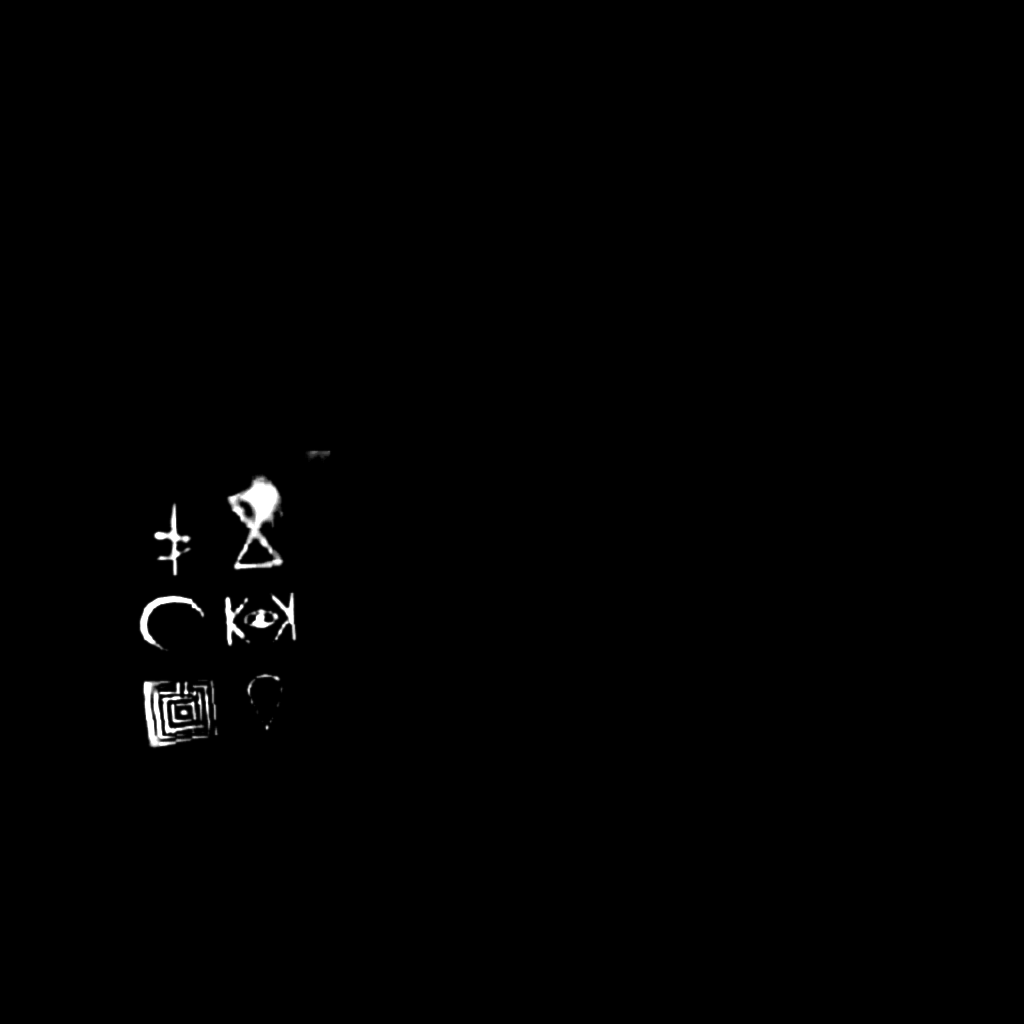
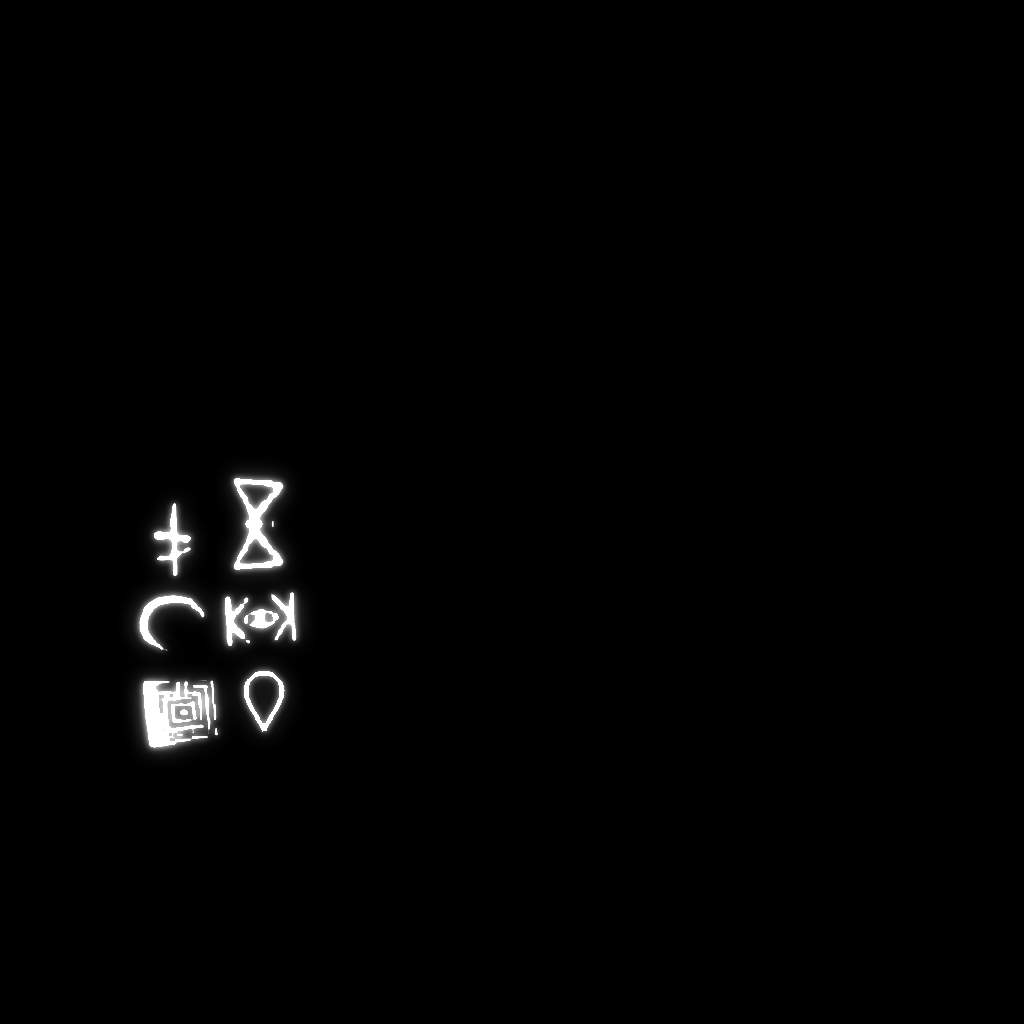
Sem travar ao subir de nível/Premium, pedras por tamanho, runas acesas, XP de classe, Shop sem pular
- WebGL: sempre as mesmas 15 luzes pontuais no desenho (luzes-fixas.ts); luz que nasce ou some não recompila mais tudo
- efeitos de festa compilados com antecedência (20 s depois de entrar e com XP acima de 85%)
- retrato do herói lido da placa sem parar o quadro e só depois da festa
- calçamento: pedra grande no centro da cidade/vila, menor para fora (WebGL e WebGPU)
- runas da pedra de teleporte: máscara refeita (ampulheta e gota inteiras, halo) e mais brilho
- classe usa a mesma tabela de XP do nível e ganha o XP inteiro
- Shop com tamanho fixo e rolagem mantida

Claude-Session: https://claude.ai/code/session_011Q13KsK35R24aYscTFTDoe

Changed region(s): [[0.125, 0.4375, 0.3125, 0.75]]

diff --git a/client/src/main.ts b/client/src/main.ts
@@ -19,6 +19,7 @@ import { eyeSees } from './surrender';
 import * as THREE from 'three';
 import { gaitOf } from './andar';
 import { premiumWelcome } from './celebrate';
+import { createFixedLights } from './luzes-fixas';
 /* DESEMPENHO (25/10, 10 fps no evento): o three.js recalcula a matriz de TODO objeto da cena a cada quadro, mesmo escondido —
    e são ~29 mil peças de NPCs longe (visible=false). Escondido não recalcula; ao reaparecer, recalcula no mesmo quadro. */
 { const P = THREE.Object3D.prototype as THREE.Object3D & { __umw?: boolean }; if (!P.__umw) { P.__umw = true; const orig = P.updateMatrixWorld;
@@ -297,6 +298,7 @@ function geoSweep(roots: THREE.Object3D[]): { geo: number; tex: number } {
   return { geo, tex };
 }
 let geoSweepT = 30;
+const fixedL = gpuImpl ? null : createFixedLights(15); /* WebGL: sempre as mesmas 15 luzes pontuais no desenho (luzes-fixas.ts) — luz que nasce ou some não recompila nada */
 const scene = new THREE.Scene(); scene.matrixWorldAutoUpdate = false; /* o quadro chama scene.updateMatrixWorld() uma vez (duas passadas de desenho) */
 scene.background = new THREE.Color(0x050814);
 scene.fog = new THREE.FogExp2(0x050814, 0.02);
@@ -655,7 +657,7 @@ const inv = createInventory(game, { reactor: () => ({ on: kitRace() === 'tecno',
     if (id === 'lagrima') { confirmBox('Trocar uma <b>Lágrima do Olho</b> por <b>60 dias de Premium</b>?<br><small>Ela não volta. Guardada, ela paga uma volta da alma no Limiar.</small>', 'Trocar', () => { if (!inv.take('lagrima', 1)) return; addPremiumDays(60); game.logMsg('💧 A Lágrima se desfaz em luz: +60 dias de Bênção de Marghar (Premium).', '#c9a0ff'); }); return true; }
     if (SEAL[id]) { if (!inv.take(id, 1)) return true; addPremiumDays(SEAL[id]); const d = Math.ceil((premiumUntil() - Date.now()) / 864e5); game.logMsg(`✦ Selo de Marghar rompido: +${SEAL[id]} dias de Premium (${d} dias no total).`, '#c9a0ff');
       /* 03/11: a comemoração — o herói dança, o brilho violeta e dourado sobe em volta dele e chega a mensagem de boas-vindas */
-      hero.act('dance', true); audio.chime(); const hp = hero.root.position;
+      dispatchEvent(new CustomEvent('karmika:celebrate')); hero.act('dance', true); audio.chime(); const hp = hero.root.position;
       for (let w = 0; w < 4; w++) setTimeout(() => { for (let i = 0; i < 40; i++) { const a = i / 40 * 6.283; particles.spawn(hp.x + Math.cos(a) * 0.8, hp.y + 0.2, hp.z + Math.sin(a) * 0.8, { vx: Math.cos(a) * 1.6, vy: 1.5 + Math.random() * 2.5, vz: Math.sin(a) * 1.6, life: 1.4, s0: 0.3, s1: 0.04, c0: 0xffffff, c1: w % 2 ? 0xffd24a : 0xc9a0ff, a: 1, drag: 1.2, g: -0.3 }); } }, w * 500);
       dispatchEvent(new CustomEvent('karmika:burst', { detail: { c0: 0xffffff, c1: 0xc9a0ff, n: 180 } }));
       setTimeout(() => premiumWelcome(SEAL[id], d), 900); return true; }
@@ -1614,6 +1616,13 @@ function applyGfx() { const m = opts.gfx === 1; PIX = m ? 1 : opts.pix; WORLD_RA
 /* RESGUARDO: se o WebGPU errar seguido neste PC (driver, placa, navegador), o jogo anota e reabre em WebGL sozinho — o jogador não fica
    com tela preta. A escolha WebGPU continua salva; na próxima abertura ele tenta de novo só se o jogador pedir (Opções → Renderizador). */
 let gpuFails = 0, gpuFailT = 0;
+/* PRÉ-AQUECIMENTO (03/11, Erling: "não quero que o jogo trave quando passa de level nem quando compra premium… um pré-carregamento quando o
+   XP estiver perto de 90%"): os materiais dos efeitos de festa são compilados com antecedência, em segundo plano — 20 s depois de entrar no
+   mundo e de novo quando o XP passa de 85% (o que já foi compilado não custa nada). No WebGPU os programas já são montados em segundo plano. */
+{ let warmed = 0; const warm = () => { if (gpuImpl) return; try { const g = game.prewarmGroup(), prev = renderer.getRenderTarget(); renderer.setRenderTarget(composer.renderTarget1); /* o mundo é desenhado num alvo linear (o composer): o programa é o desse alvo */ void renderer.compileAsync(g, camera, scene).catch(() => { /* */ }); renderer.setRenderTarget(prev); } catch { /* */ } };
+  setTimeout(warm, 20000); setInterval(() => { const k = game.st.xp / Math.max(1, game.xpNeed()); if (k > 0.85 && warmed !== game.st.lvl) { warmed = game.st.lvl; warm(); } }, 5000); }
+/* teste (Playwright): subir de nível e usar item sem jogar até lá */
+(window as unknown as { __kt: unknown }).__kt = { game, inv, renderer, hero: () => hero };
 function gpuFail(m: string) { if (/[?&]gpunofb=1/.test(location.search)) { gpuErr(m); return; } const now = performance.now(); if (now - gpuFailT > 10000) gpuFails = 0; gpuFailT = now; gpuFails++; console.error('[WebGPU] erro no quadro:', m);
   if (gpuFails >= 20 || gpuState.errs > 60) { try { sessionStorage.setItem('karmika.gpuFallback', m.slice(0, 300)); } catch { /* */ } opts.rend = 0; saveOpts(); gpuImpl = null; location.reload(); } }
 setInterval(() => { if (gpuImpl && (gpuState.errs > 60 || gpuState.lost)) { gpuFails = 99; gpuFail(gpuState.lost ? 'a placa de vídeo se desligou do WebGPU' : 'erros seguidos do WebGPU'); } }, 1000);
@@ -2431,7 +2440,7 @@ function eyeGaze(): { x: number; y: number; kind: 'threat' | 'mouse' | 'move' | 
 const LUZES_ATIVAS = 14;
 let poolT = 0, poolList: THREE.PointLight[] = [], poolScanT = 0;
 function lightPool(dt: number) {
-  poolScanT -= dt; if (poolScanT <= 0) { poolScanT = 1.5; poolList = []; scene.traverse((o) => { const l = o as THREE.PointLight; if (l.isPointLight && l !== lantern && !(l.userData as { keep?: boolean; gpuPool?: boolean }).keep && !(l.userData as { gpuPool?: boolean }).gpuPool) poolList.push(l); /* 03/11: as 24 luzes fixas do WebGPU ficam fora deste rodízio — apagar uma delas mudava o conjunto de luzes e remontava TODOS os materiais (tela preta de 1 s) */
+  poolScanT -= dt; if (poolScanT <= 0) { poolScanT = 1.5; poolList = []; scene.traverse((o) => { const l = o as THREE.PointLight; if (l.isPointLight && l !== lantern && !(l.userData as { keep?: boolean; gpuPool?: boolean }).keep && !(l.userData as { gpuPool?: boolean }).gpuPool && !(l.userData as { fixedLight?: boolean }).fixedLight) poolList.push(l); /* 03/11: as 24 luzes fixas do WebGPU ficam fora deste rodízio — apagar uma delas mudava o conjunto de luzes e remontava TODOS os materiais (tela preta de 1 s) */
       /* sombra só para o que tem tamanho de fazer sombra: capim, flor, pedrinha e vela não entram no mapa de sombras (eram milhares) */
       const m = o as THREE.Mesh; if (m.isMesh && m.castShadow && !(m.userData as { shadowChecked?: boolean }).shadowChecked) { (m.userData as { shadowChecked?: boolean }).shadowChecked = true; const g = m.geometry; if (!g.boundingSphere) g.computeBoundingSphere(); const sc = Math.max(m.scale.x, m.scale.y, m.scale.z); if ((g.boundingSphere?.radius ?? 1) * sc < 0.28 && !(m as unknown as { isSkinnedMesh?: boolean }).isSkinnedMesh) m.castShadow = false; } }); }
   poolT -= dt; if (poolT > 0) return; poolT = 0.2;
@@ -2470,7 +2479,7 @@ function frameBody() {
   { fpsN++; const nowMs = performance.now(); if (nowMs - fpsT > 1000) { const v = document.getElementById('ver'); if (v) { const N = Math.max(1, perf.n), ri = renderer.info.render; v.textContent = `${fpsN} fps · CPU ${(perf.cpuS / N).toFixed(1)} ms (desenho ${(perf.drawS / N).toFixed(1)}) · GPU ${perf.gpuN ? (perf.gpuS / perf.gpuN).toFixed(1) + ' ms' : '—'} · ${ri.calls} desenhos · ${(ri.triangles / 1000).toFixed(0)}k tri · ${game.dbg().en.length} inimigos · build ${__BUILD__}`; }
     perf.cpuS = perf.drawS = perf.gpuS = 0; perf.n = perf.gpuN = 0; fpsN = 0; fpsT = nowMs; pmFlush(); } }
   const rawDt = Math.min(0.05, clock.getDelta());
-  if (limiar.active) { limiar.frame(rawDt, renderer.domElement.width, renderer.domElement.height); bloom.strength = 0.22 * opts.bloom * gfxBloom; renderer.info.reset(); if (gpuImpl) limiarGL(true); else composer.render(); return; }
+  if (limiar.active) { limiar.frame(rawDt, renderer.domElement.width, renderer.domElement.height); bloom.strength = 0.22 * opts.bloom * gfxBloom; renderer.info.reset(); if (gpuImpl) limiarGL(true); else { if (fixedL) { const [fs, fc] = dual.cur(); fixedL.frame(fs, fc); } composer.render(); } return; }
   if (limGL) limiarGL(false); // o mundo espera lá embaixo
   const dt = rawDt * game.timeScale() * (cinemaSys.cine ? 0 : 1) * (dlg.isOpen || document.getElementById('create')!.style.display === 'grid' ? 0 : 1) /* mundo vivo: janelas não pausam */;
   geoSweepT -= rawDt; if (geoSweepT <= 0) { geoSweepT = 30; const t0 = performance.now(), r = geoSweep([scene]); if (r.geo + r.tex > 0 && location.search.includes("perf")) console.log(`[varredura] ${r.geo} geometrias, ${r.tex} texturas soltas em ${(performance.now() - t0).toFixed(1)} ms`); }
@@ -2722,7 +2731,7 @@ function frameBody() {
     const nm = relicNameAt(rl.gx, rl.gy), known = !!nm && knowsRelic(nm), k = 0.5 + 0.5 * Math.sin(t * 2.2 + rl.seed);
     /* não marcada: chamado dourado no chão, pedra lisa. Marcada: as runas kármicas se gravam na pedra em azul e fica uma aura azul pequena */
     /* 03/11 (Erling: "as runas brilhantes… amarelo antes de marcar, azul depois de marcar"): as runas sempre brilham — douradas chamando, azul mágico depois */
-    { const rm = rl.runes.material as THREE.MeshBasicMaterial; if ((rl.runes.material as THREE.Material).userData.stoneGlow) { const sm = rl.runes.material as THREE.MeshToonMaterial; sm.emissive.setHex(known ? 0x3aa8ff : 0xffc83a); sm.emissiveIntensity = known ? 1.15 + 0.35 * k : 0.7 + 0.45 * k; } else if (rl.ring.userData.stone) { rm.color.setHex(known ? 0x4ab0ff : 0xffc83a); rm.opacity = known ? 0.85 + 0.15 * k : 0.55 + 0.4 * k; } else rm.opacity = known ? 0.8 + 0.2 * k : 0.04; }
+    { const rm = rl.runes.material as THREE.MeshBasicMaterial; if ((rl.runes.material as THREE.Material).userData.stoneGlow) { const sm = rl.runes.material as THREE.MeshToonMaterial; sm.emissive.setHex(known ? 0x5ab8ff : 0xffc83a); sm.emissiveIntensity = known ? 2.6 + 0.8 * k : 1.6 + 0.8 * k; /* 03/11 (Erling: "as cores dentro da pedra mais brilhantes, em tudo, mais para fora da cavidade"): máscara refeita (traço inteiro + halo em volta) e o dobro do brilho — o bloom espalha */ } else if (rl.ring.userData.stone) { rm.color.setHex(known ? 0x4ab0ff : 0xffc83a); rm.opacity = known ? 0.85 + 0.15 * k : 0.55 + 0.4 * k; } else rm.opacity = known ? 0.8 + 0.2 * k : 0.04; }
     (rl.ring.material as THREE.MeshBasicMaterial).color.setHex(known ? (rl.ring.userData.col as number | undefined) ?? 0x5aa8ff : 0xffc83a); (rl.ring.material as THREE.MeshBasicMaterial).opacity = known ? 0.35 + 0.2 * k : 0.55 + 0.4 * k;
     rl.ring.scale.setScalar(known ? 0.72 + 0.04 * k : 1.0 + 0.12 * k); rl.ring.rotation.y = t * (known ? 0.25 : 0.5);
     if (Math.random() < dt * (known ? 4 : 5) && rl.pos.distanceTo(heroPos) < 50) { const a = Math.random() * 6.283, rr = known ? 0.5 + Math.random() * 0.4 : 0.8 + Math.random() * 1.2; particles.spawn(rl.pos.x + Math.cos(a) * rr, rl.pos.y - (known ? 0.6 : 1.4), rl.pos.z + Math.sin(a) * rr, known ? { vy: 0.5 + Math.random() * 0.6, life: 1.3, s0: 0.12, s1: 0.02, c0: rl.ring.userData.stone ? 0xbfe6ff : 0xffe0a0, c1: rl.ring.userData.stone ? 0x3a8aff : (rl.ring.userData.col as number | undefined) ?? 0x4a9aff, a: 0.9 } : { vy: 0.8 + Math.random() * 0.8, life: 1.6, s0: 0.14, s1: 0.02, c0: 0xfff0bd, c1: 0xffd24a, a: 1 }); }
@@ -2788,7 +2797,7 @@ function frameBody() {
   pm('bloom-cfg');
   scene.updateMatrixWorld(); /* uma vez por quadro, para as duas passadas do desenho (o three.js fazia em cada render) */
   renderer.info.reset();
-  { const d0 = performance.now(); gpuBegin(); composer.render(); gpuEnd(); perf.drawS += performance.now() - d0; }
+  { const d0 = performance.now(); if (fixedL) { const [fs, fc] = dual.cur(); fixedL.frame(fs, fc); } gpuBegin(); composer.render(); gpuEnd(); perf.drawS += performance.now() - d0; }
   pm('desenho');
   dollTick(rawDt);
   pm('boneco');

diff --git a/client/src/sistemas/social-guildas.ts b/client/src/sistemas/social-guildas.ts
@@ -197,10 +197,10 @@ const inicio = createInicio({ onServer: (sv) => hub.connect(sv), social: () => s
   onPlay: (server, isNew) => { pendingServer = server; if (isNew || !K.profile) K.showCreate(); /* direto: antes a vila aparecia por um instante entre o menu e a criação (Erling, 26/10) */ else K.withFade(() => { K.objs.update(K.state.fx * T, K.state.fy * T, true); joinServer(); }, server ? 'Entrando no servidor…' : 'Entrando em Karmika…', () => setTimeout(K.resumeSoul, 300)); },
   fresh: async () => K.profile ? { lvl: K.game.st.lvl, cls: K.classOfRace(K.state.race), pic: await slotPic() } : null });
 /** retrato pequeno (96×120) do herói carregado, para o card do personagem */
-function slotPic(): Promise<string | null> { return new Promise((res) => { try { if (K.humanSkinKey() && !K.peleSys.skinModel) { res(null); return; } /* o modelo do artista ainda não chegou: fica a foto anterior */ res(heroCard(K.hero.root)); } catch { res(null); } }); }
+function slotPic(): Promise<string | null> { return new Promise((res) => { try { if (K.humanSkinKey() && !K.peleSys.skinModel) { res(null); return; } /* o modelo do artista ainda não chegou: fica a foto anterior */ const c = heroCard(K.hero.root); if (!c) { res(null); return; } c.then(res, () => res(null)); } catch { res(null); } }); }
 /** retrato do Caminhante para a tela de personagens (25/10): estúdio próprio — luz de frente, contraluz, cores em sRGB,
  *  fundo de pergaminho escuro com brilho dourado e sombra no chão. Antes saía escuro e indecifrável (render target linear, sem fundo). */
-function heroCard(root: THREE.Object3D): string | null {
+function heroCard(root: THREE.Object3D): Promise<string | null> | null {
   const W = 264, H = 330, S = 2, rw = W * S, rh = H * S, rt = new THREE.WebGLRenderTarget(rw, rh); rt.texture.colorSpace = THREE.SRGBColorSpace;
   const ps = new THREE.Scene(); ps.environment = K.scene.environment;
   ps.add(new THREE.HemisphereLight(0xfff2dc, 0x6a5a50, 4.2)); ps.add(new THREE.AmbientLight(0xffffff, 1.4));
@@ -214,12 +214,18 @@ function heroCard(root: THREE.Object3D): string | null {
   const cam = new THREE.PerspectiveCamera(26, W / H, 0.05, 40), dist = (top * 0.56) / Math.tan((26 / 2) * Math.PI / 180) + 0.3; cam.position.set(0.25, cy + 0.12, dist); cam.lookAt(0, cy, 0); cam.layers.enableAll();
   const bgc = new THREE.Color(); K.renderer.getClearColor(bgc); const alpha = K.renderer.getClearAlpha(), sm = K.renderer.shadowMap.autoUpdate;
   K.renderer.shadowMap.autoUpdate = false; K.renderer.setRenderTarget(rt); K.renderer.setClearColor(0x000000, 0); K.renderer.clear(); K.renderer.render(ps, cam);
-  const px = new Uint8Array(rw * rh * 4); K.renderer.readRenderTargetPixels(rt, 0, 0, rw, rh, px);
-  K.renderer.setRenderTarget(null); K.renderer.setClearColor(bgc, alpha); K.renderer.shadowMap.autoUpdate = sm; rt.dispose();
+  K.renderer.setRenderTarget(null); K.renderer.setClearColor(bgc, alpha); K.renderer.shadowMap.autoUpdate = sm;
   for (const o of xr) o.visible = true; ps.remove(root); if (parent) parent.add(root); root.position.copy(pos); root.rotation.copy(rot); root.visible = vis;
-  const fig = document.createElement('canvas'); fig.width = rw; fig.height = rh; const fg = fig.getContext('2d')!, im = fg.createImageData(rw, rh);
-  let any = 0; for (let y = 0; y < rh; y++) for (let x = 0; x < rw; x++) { const si = ((rh - 1 - y) * rw + x) * 4, di = (y * rw + x) * 4; im.data[di] = px[si]; im.data[di + 1] = px[si + 1]; im.data[di + 2] = px[si + 2]; im.data[di + 3] = px[si + 3]; any += px[si + 3] > 0 ? 1 : 0; }
-  if (any < 200) return null; fg.putImageData(im, 0, 0);
+  /* 03/11 (Erling: "não quero que o jogo trave quando passa de level"): os pixels voltam da placa SEM parar o quadro (leitura assíncrona);
+     o resto (fundo, moldura, JPEG) é feito quando chegam */
+  const px = new Uint8Array(rw * rh * 4), R = K.renderer as THREE.WebGLRenderer & { readRenderTargetPixelsAsync?: (rt: THREE.WebGLRenderTarget, x: number, y: number, w: number, h: number, b: Uint8Array) => Promise<unknown> };
+  const read: Promise<unknown> = R.readRenderTargetPixelsAsync ? R.readRenderTargetPixelsAsync(rt, 0, 0, rw, rh, px) : Promise.resolve(R.readRenderTargetPixels(rt, 0, 0, rw, rh, px));
+  return read.then(() => { rt.dispose(); return cardFinish(px, rw, rh, W, H, top, cy); }, () => { rt.dispose(); return null; });
+}
+function cardFinish(px: Uint8Array, rw: number, rh: number, W: number, H: number, top: number, cy: number): string | null {
+  let any = 0; for (let i = 3; i < px.length; i += 16) if (px[i] > 0) any++; if (any < 50) return null;
+  const flip = document.createElement('canvas'); flip.width = rw; flip.height = rh; flip.getContext('2d')!.putImageData(new ImageData(new Uint8ClampedArray(px.buffer as ArrayBuffer), rw, rh), 0, 0);
+  const fig = document.createElement('canvas'); fig.width = rw; fig.height = rh; const fg = fig.getContext('2d')!; fg.translate(0, rh); fg.scale(1, -1); fg.drawImage(flip, 0, 0); /* a placa lê de baixo para cima */
   const cv = document.createElement('canvas'); cv.width = W; cv.height = H; const g = cv.getContext('2d')!;
   const bg = g.createRadialGradient(W / 2, H * 0.42, 10, W / 2, H * 0.5, H * 0.75); bg.addColorStop(0, '#5a4226'); bg.addColorStop(0.45, '#2a1e14'); bg.addColorStop(1, '#0c0806'); g.fillStyle = bg; g.fillRect(0, 0, W, H);
   g.globalAlpha = 0.18; g.strokeStyle = '#e0b45a'; g.lineWidth = 1; for (let k = 0; k < 7; k++) { g.beginPath(); g.arc(W / 2, H * 0.4, 30 + k * 26, 0, Math.PI * 2); g.stroke(); } g.globalAlpha = 1;
@@ -230,13 +236,16 @@ function heroCard(root: THREE.Object3D): string | null {
   return cv.toDataURL('image/jpeg', 0.86);
 }
 /* o retrato do cartão lê pixels da placa (trava o quadro): só tira de novo quando muda nível, classe ou a cada 5 min, não a cada 20 s */
-let picKey = '', picAt = 0;
+let picKey = '', picAt = 0, celebAt = 0;
+addEventListener('karmika:celebrate', () => { celebAt = performance.now(); });
 function saveSlotMeta() { if (!K.profile || inicio.isOpen || K.peleSys.creating) return;
   const pk = `${K.game.st.lvl}|${(document.getElementById('who')?.textContent || '').trim()}`;
   /* WebGPU: a foto sai por um WebGL à parte, que monta o herói do zero (meio segundo parado). Então só tira quando muda nível ou classe —
      não na primeira gravação (fica a foto que já estava no cartão) nem a cada 5 min */
   if (gpuState.on && !picKey) picKey = pk;
-  const needPic = pk !== picKey || (!gpuState.on && performance.now() - picAt > 300000); if (needPic) { picKey = pk; picAt = performance.now(); }
+  /* a foto espera a festa acabar: nada de tirar retrato no meio do pilar de luz da subida de nível ou de uma luta */
+  const busy = performance.now() - celebAt < 12000 || !!K.hero.combat;
+  const needPic = !busy && (pk !== picKey || (!gpuState.on && performance.now() - picAt > 300000)); if (needPic) { picKey = pk; picAt = performance.now(); }
   (needPic ? slotPic() : Promise.resolve(null)).then((pic) => { if (K.profile) inicio.saveMeta({ name: K.profile.name, lvl: K.game.st.lvl, cls: (document.getElementById('who')?.textContent || '').trim(), origin: K.profile.origin, sex: K.profile.sex ?? 'm', pic, server: K.net.state === 'on' ? `karmika://${K.net.address}/${K.net.code}` : null }); }); }
 setInterval(saveSlotMeta, 20000); addEventListener('beforeunload', () => { if (K.profile && !inicio.isOpen) inicio.saveMeta({ name: K.profile.name, lvl: K.game.st.lvl, cls: (document.getElementById('who')?.textContent || '').trim(), origin: K.profile.origin, sex: K.profile.sex ?? 'm', pic: null, server: null }); });
 /* balão de fala sobre o herói */

diff --git a/client/src/chunks3d.ts b/client/src/chunks3d.ts
@@ -4,6 +4,8 @@ import { TILE_M as T } from '@karmika/shared';
 import { type World, type Biome, MAP_W, MAP_H, groundH, waterSD, zoneW, WL, fbm, vnoise, smoothstep, rng } from './world';
 import { windU, windify } from './terrain3d';
 /* fator de calçamento num ponto (em casas): 1 perto das cidades, cai até 0 no ermo; perto das vilas, meio a meio (25/10) */
+/** tamanho da pedra do calçamento: 1 no coração da cidade ou da vila (laje grande), 0 longe (pedra miúda) */
+function stoneSize(w: World, x: number, y: number) { let p = 0; for (const st of w.settlements) { const d = Math.hypot(x - st.x, y - st.y); p = Math.max(p, st.kind === 'city' ? 1 - smoothstep(5, 34, d) : 0.85 * (1 - smoothstep(2, 18, d))); } return p; }
 function paveAt(w: World, x: number, y: number) { let p = 0; for (const st of w.settlements) { const d = Math.hypot(x - st.x, y - st.y); if (st.kind === 'city') p = Math.max(p, 1 - smoothstep(80, 170, d)); else p = Math.max(p, 0.55 * (1 - smoothstep(st.radius + 4, st.radius + 26, d))); } return p; }
 
 export const CS = 20;               // tiles por chunk
@@ -51,8 +53,8 @@ function getGroundMat() {
   groundMat = new THREE.MeshLambertMaterial({ vertexColors: true }); gpuTag(groundMat, 'ground', groundU); loadGroundTex();
   groundMat.onBeforeCompile = (sh) => {
     Object.assign(sh.uniforms, groundU);
-    sh.vertexShader = 'attribute float aPl; attribute vec4 aSp1; attribute vec4 aSp2; varying float vPl; varying vec3 vWp; varying vec4 vSp1; varying vec4 vSp2;\n' + sh.vertexShader.replace('#include <begin_vertex>', '#include <begin_vertex>\n vPl = aPl; vSp1 = aSp1; vSp2 = aSp2; vWp = (modelMatrix * vec4(position,1.0)).xyz;');
-    sh.fragmentShader = `precision highp sampler2DArray; uniform sampler2DArray tGround; uniform vec3 uMean[18]; uniform float uTexOn; varying float vPl; varying vec3 vWp; varying vec4 vSp1; varying vec4 vSp2;
+    sh.vertexShader = 'attribute float aPl; attribute float aCs; attribute vec4 aSp1; attribute vec4 aSp2; varying float vPl; varying float vCs; varying vec3 vWp; varying vec4 vSp1; varying vec4 vSp2;\n' + sh.vertexShader.replace('#include <begin_vertex>', '#include <begin_vertex>\n vPl = aPl; vCs = aCs; vSp1 = aSp1; vSp2 = aSp2; vWp = (modelMatrix * vec4(position,1.0)).xyz;');
+    sh.fragmentShader = `precision highp sampler2DArray; uniform sampler2DArray tGround; uniform vec3 uMean[18]; uniform float uTexOn; varying float vPl; varying float vCs; varying vec3 vWp; varying vec4 vSp1; varying vec4 vSp2;
       float gHash(vec2 p) { return fract(sin(dot(p, vec2(127.1, 311.7))) * 43758.5453); }
       float gNoise(vec2 p) { vec2 i = floor(p), f = fract(p); f = f * f * (3.0 - 2.0 * f); return mix(mix(gHash(i), gHash(i + vec2(1, 0)), f.x), mix(gHash(i + vec2(0, 1)), gHash(i + vec2(1, 1)), f.x), f.y); }
       /* a textura sem repetir: duas leituras (escala e ângulo diferentes) trocadas por um ruído largo */
@@ -77,7 +79,10 @@ function getGroundMat() {
         /* estrada de terra (as duas versões) e o calçamento de pedra */
         vec3 road = mix(gTex(2.0, 3.0), gTex(3.0, 3.0), smoothstep(0.4, 0.6, gNoise(vWp.xz * 0.06 + 9.0)));
         base = mix(base, road * 0.92, clamp(vSp1.x, 0.0, 1.0));
-        vec3 cob = mix(gTex(4.0, 2.4), gTex(5.0, 2.4), smoothstep(0.4, 0.6, gNoise(vWp.xz * 0.05 + 3.0)));
+        /* 03/11 (Erling: "as pedras maiores no centro e menores conforme se afasta da praça"): três tamanhos de pedra, do centro da cidade (grande) para fora (miúda), trocados aos poucos */
+        float cu = clamp(vCs, 0.0, 1.0) * 2.0, cf = smoothstep(0.3, 0.7, fract(cu)); float sA = cu < 1.0 ? 1.6 : 2.4, sB = cu < 1.0 ? 2.4 : 3.4; if (cu >= 2.0) { sA = 3.4; cf = 0.0; }
+        float cn = smoothstep(0.4, 0.6, gNoise(vWp.xz * 0.05 + 3.0));
+        vec3 cob = mix(mix(gTex(4.0, sA), gTex(5.0, sA), cn), mix(gTex(4.0, sB), gTex(5.0, sB), cn), cf);
         /* nas cidades grandes, a praça é de laje (vPl = cidade) */ cob = mix(cob, gTex(12.0, 3.2), vPl * smoothstep(0.3, 0.7, gNoise(vWp.xz * 0.02 + 11.0)));
         base = mix(base, cob * 0.95, clamp(vSp1.y, 0.0, 1.0));
         diffuseColor.rgb = base;
@@ -196,7 +201,7 @@ export function buildChunkTerrain(cx: number, cy: number, w: World): ChunkTerrai
   /* alturas com margem de 1 vértice (normais por diferença central) */
   const W2 = SEG + 3, hs = new Float32Array(W2 * W2);
   for (let j = 0; j < W2; j++) for (let i = 0; i < W2; i++) hs[j * W2 + i] = groundH(ox + (i - 1) * d, oz + (j - 1) * d);
-  const pos = new Float32Array(N * N * 3), nor = new Float32Array(N * N * 3), col = new Float32Array(N * N * 3), pl = new Float32Array(N * N), dep = new Float32Array(N * N), sds = new Float32Array(N * N), sp1 = new Float32Array(N * N * 4), sp2 = new Float32Array(N * N * 4);
+  const pos = new Float32Array(N * N * 3), nor = new Float32Array(N * N * 3), col = new Float32Array(N * N * 3), pl = new Float32Array(N * N), cs = new Float32Array(N * N), dep = new Float32Array(N * N), sds = new Float32Array(N * N), sp1 = new Float32Array(N * N * 4), sp2 = new Float32Array(N * N * 4);
   let anyWater = false;
   for (let j = 0; j < N; j++) for (let i = 0; i < N; i++) {
     const k = j * N + i, xm = ox + i * d, zm = oz + j * d, h = hs[(j + 1) * W2 + (i + 1)];
@@ -234,6 +239,7 @@ export function buildChunkTerrain(cx: number, cy: number, w: World): ChunkTerrai
     if (rw > 0.05) { const pv = paveAt(w, tx, ty); if (pv > 0) { const n = vnoise(xm * 0.55, zm * 0.55, 33) * 0.8 + vnoise(xm * 2.2, zm * 2.2, 34) * 0.2; pw = Math.max(pw, rw * smoothstep(n - 0.05, n + 0.05, pv)); } }
     if (rw > 0) { tmpD.copy(ROAD).lerp(ROAD2, vnoise(xm * 1.3, zm * 1.3, 2)); tmpC.lerp(tmpD, rw * 0.95); }
     if (pw > 0) tmpC.lerp(PLAZA, pw);
+    cs[k] = pw > 0.05 ? stoneSize(w, tx, ty) : 0;
     pl[k] = pw > 0.05 ? smoothstep(0.85, 1, paveAt(w, tx, ty)) : 0; /* 03/11: aPl virou "é cidade grande" (a praça de laje) */
     /* 03/11 (Erling: "capricha para ficar lindo e não ficar uma textura repetitiva"): pesos das texturas do chão (getGroundMat) —
        estrada de terra, calçamento, lama da margem, chão de floresta | seixos, rocha, areia, e quanto o chão natural usa a textura */
@@ -245,7 +251,7 @@ export function buildChunkTerrain(cx: number, cy: number, w: World): ChunkTerrai
   const idx: number[] = [];
   for (let j = 0; j < SEG; j++) for (let i = 0; i < SEG; i++) { const a = j * N + i, b = a + 1, c = a + N, e = c + 1; idx.push(a, c, b, b, c, e); }
   const gg = new THREE.BufferGeometry();
-  gg.setAttribute('position', new THREE.BufferAttribute(pos, 3)); gg.setAttribute('normal', new THREE.BufferAttribute(nor, 3)); gg.setAttribute('color', new THREE.BufferAttribute(col, 3)); gg.setAttribute('aPl', new THREE.BufferAttribute(pl, 1)); gg.setAttribute('aSp1', new THREE.BufferAttribute(sp1, 4)); gg.setAttribute('aSp2', new THREE.BufferAttribute(sp2, 4)); gg.setIndex(idx);
+  gg.setAttribute('position', new THREE.BufferAttribute(pos, 3)); gg.setAttribute('normal', new THREE.BufferAttribute(nor, 3)); gg.setAttribute('color', new THREE.BufferAttribute(col, 3)); gg.setAttribute('aPl', new THREE.BufferAttribute(pl, 1)); gg.setAttribute('aCs', new THREE.BufferAttribute(cs, 1)); gg.setAttribute('aSp1', new THREE.BufferAttribute(sp1, 4)); gg.setAttribute('aSp2', new THREE.BufferAttribute(sp2, 4)); gg.setIndex(idx);
   gg.computeBoundingSphere(); own.push(gg);
   grp.userData.kind = 'chunk'; const ground = new THREE.Mesh(gg, getGroundMat()); ground.position.set(ox, 0, oz); ground.receiveShadow = true; grp.add(ground);
 

diff --git a/client/src/gameplay.ts b/client/src/gameplay.ts
@@ -222,7 +222,19 @@ export function createGameplay(d: GameplayDeps) {
     for (let i = 0; i < 36; i++) { const a = rnd(0, 6.283), sp = rnd(1, 4); d.particles.spawn(cx, cy, cz, { vx: Math.cos(a) * sp, vy: rnd(-1, 2), vz: Math.sin(a) * sp, life: 2.6, s0: 0.7, s1: 0.05, c0: 0xfff2c0, c1: col, a: 0.9, drag: 0.8, g: 2.2, flit: 3 }); }
     d.audio.boom();
   }
+  /** 03/11 (Erling: "um pré-carregamento desses eventos antes de acontecerem"): uma amostra de cada material dos efeitos de festa (pilar e
+   *  anéis da subida de nível, clarão, anel de choque) — o main compila com antecedência, e a primeira subida de nível não para o jogo */
+  function prewarmGroup() {
+    const g = new THREE.Group(), geo = new THREE.PlaneGeometry(0.1, 0.1);
+    const add = (m: THREE.Material) => { const o = (m as THREE.SpriteMaterial).isSpriteMaterial ? new THREE.Sprite(m as THREE.SpriteMaterial) : new THREE.Mesh(geo, m); g.add(o); };
+    add(new THREE.MeshBasicMaterial({ color: 0xffffff, transparent: true, opacity: 0.5, blending: THREE.AdditiveBlending, depthWrite: false, side: THREE.DoubleSide, fog: false }));
+    add(new THREE.MeshBasicMaterial({ color: 0xffffff, transparent: true, opacity: 0.5, blending: THREE.AdditiveBlending, depthWrite: false, fog: false }));
+    add(new THREE.SpriteMaterial({ map: flashTex, transparent: true, depthWrite: false, blending: THREE.AdditiveBlending, fog: false }));
+    add(new THREE.SpriteMaterial({ map: PLUS_TEX, transparent: true, depthWrite: false, blending: THREE.AdditiveBlending, fog: false }));
+    return g;
+  }
   function levelFx(hp: THREE.Vector3) {
+    dispatchEvent(new CustomEvent('karmika:celebrate'));
     const mat = (c: number) => new THREE.MeshBasicMaterial({ color: c, transparent: true, opacity: 0, blending: THREE.AdditiveBlending, depthWrite: false, side: THREE.DoubleSide, fog: false });
     const pil = new THREE.Mesh(new THREE.CylinderGeometry(0.8, 1.6, 28, 20, 1, true), mat(0xffe9a0)); pil.position.set(hp.x, hp.y + 14, hp.z);
     const pil2 = new THREE.Mesh(new THREE.CylinderGeometry(0.28, 0.55, 32, 12, 1, true), mat(0xffffff)); pil2.position.set(hp.x, hp.y + 16, hp.z);
@@ -262,7 +274,9 @@ export function createGameplay(d: GameplayDeps) {
     m.position.set(dx, e.pos.y + 0.5, dz); fxAdd(m); drops.push({ m, x: dx, z: dz, y: e.pos.y, kind: 'item', n, t: 0, id });
   }
   /* ---- nível de classe (caminho): segunda barra abaixo do XP ---- */
-  const clsNeed = (l: number) => 90 + 70 * l + 9 * l * l;
+  /* 03/11 (Erling: "os pontos de classe não deveriam ser mais fáceis que os de nível? o humano é a classe base, segue a mesma regra"): a classe
+     usa a MESMA tabela do nível e ganha o XP inteiro (antes: 45% do XP e uma tabela ~50% mais cara — a classe andava 3× mais devagar) */
+  const clsNeed = (l: number) => xpNeedAt(l);
   let cls: { name: string; lvl: number; xp: number; past?: { name: string; lvl: number }[] } = { name: 'Humano', lvl: 1, xp: 0, past: [] };
   try { const s0 = JSON.parse(localStorage.getItem('karmika.class.v1') || 'null'); if (s0?.name && typeof s0.lvl === 'number') cls = s0; } catch { /* */ } // antes era s0?.lvl: quem mudava de classe e recarregava antes do 1º nível de classe voltava a Humano
   /** a alma filtra o XP: Dívida Kármica (come uma parte) e o eco da vida passada (multiplica o XP de classe) */
@@ -271,7 +285,7 @@ export function createGameplay(d: GameplayDeps) {
     const gross = Math.round(n0 * st.xpMul), f = xpFilter ? xpFilter(gross, cls) : { n: gross, paid: 0, cmul: 1 }, n = f.n;
     st.xp += n; dmgText(p.clone().setY(2.6), `+${n} XP`, false, '#9ad7ff'); logMsg(`+${n} XP${f.paid ? ` · ${f.paid} pagam a Dívida Kármica` : ''}${f.cmul > 1 ? ` · eco da vida passada: classe ×${f.cmul}` : ''}`, '#9ad7ff');
     { // XP de classe: a segunda contagem — o seu caminho (Caminhante, depois a classe da academia) evolui junto, mais devagar
-      const c = cls; c.xp += Math.round(gross * 0.45 * f.cmul);
+      const c = cls; c.xp += Math.round(gross * f.cmul);
       while (c.xp >= clsNeed(c.lvl)) { c.xp -= clsNeed(c.lvl); c.lvl++; dmgText(p.clone().setY(3.4), `${c.name.toUpperCase()} ${c.lvl}`, true, '#c9a0ff'); logMsg(`✦ Nível de classe ${c.lvl} — ${c.name}`, '#c9a0ff'); d.audio.chime(); classLevelUp(c.name, c.lvl); dispatchEvent(new CustomEvent('karmika:burst', { detail: { c0: 0xe8d0ff, c1: 0x8a4aff, n: 70 } })); }
       try { localStorage.setItem('karmika.class.v1', JSON.stringify(cls)); } catch { /* */ }
     }
@@ -1082,7 +1096,7 @@ export function createGameplay(d: GameplayDeps) {
     setNet(h: Partial<typeof netHooks>, party: () => number) { Object.assign(netHooks, h); partyN = party; },
     /** um companheiro de grupo matou um bicho perto de mim: XP, missão e o meu próprio saque */
     sharedKill(e: Enemy) { killEnemy(e, true); },
-    setPvp(f: typeof pvpHit) { pvpHit = f; }, /** a arma equipada (nome base) decide se o ataque básico é corpo a corpo ou tiro */ setWeapon(base: string | null) { wmode = base ? WMODE.find(([re]) => re.test(base))?.[1] ?? null : null; }, get weaponMode() { return wmode; }, get shotsLive() { return shots.count; }, shotsSys: shots, setOnYield(f: (e: Enemy, decide: (kill: boolean) => void) => void) { onYield = f; }, setXpFilter(f: typeof xpFilter) { xpFilter = f; }, spawnGear, gainXp(n: number) { gainXp(n, d.getHero().root.position); },
+    setPvp(f: typeof pvpHit) { pvpHit = f; }, /** a arma equipada (nome base) decide se o ataque básico é corpo a corpo ou tiro */ setWeapon(base: string | null) { wmode = base ? WMODE.find(([re]) => re.test(base))?.[1] ?? null : null; }, get weaponMode() { return wmode; }, get shotsLive() { return shots.count; }, shotsSys: shots, setOnYield(f: (e: Enemy, decide: (kill: boolean) => void) => void) { onYield = f; }, setXpFilter(f: typeof xpFilter) { xpFilter = f; }, spawnGear, gainXp(n: number) { gainXp(n, d.getHero().root.position); }, prewarmGroup,
     get menuOpen() { return st.menuOpen; },
     /** alvo mais próximo ao alcance (trava automática dos golpes) */
     timeScale() { return performance.now() < hitstop ? 0.1 : 1; },

diff --git a/client/src/luzes-fixas.ts b/client/src/luzes-fixas.ts
@@ -1,0 +1,45 @@
+/* LUZES FIXAS NO WEBGL (03/11, Erling: "não quero que o jogo trave quando passa de level nem quando compra premium").
+   No WebGL, o programa de cada material depende de QUANTAS luzes pontuais a cena tem. Toda luz que nasce ou some (o pilar de luz da
+   subida de nível, o brilho de um golpe, a lanterna de um NPC que chega, a vela de uma decoração) fazia o WebGL recompilar TODOS os
+   materiais da tela — segundos de tela parada. Agora o desenho vê sempre as mesmas luzes (as fixas): a cada quadro elas copiam posição,
+   cor, força e alcance das luzes reais mais perto do centro da tela. As luzes reais vão para a camada 31, que a câmera não desenha.
+   Muda só valor de uniforme: nada recompila. (No WebGPU, gpu/impl.ts faz o mesmo com o seu conjunto.) */
+import * as THREE from 'three';
+
+const HIDE = 31;
+const isFixed = (o: THREE.Object3D) => !!(o.userData.fixedLight || o.userData.gpuPool);
+function hideReal(o: THREE.Object3D) { if ((o as THREE.PointLight).isPointLight && !isFixed(o)) o.layers.set(HIDE); }
+
+let patched = false;
+/** toda luz pontual que entra na cena (sozinha ou dentro de um grupo) sai da vista do desenho na mesma hora */
+function patchAdd() {
+  if (patched) return; patched = true;
+  /* "todas as camadas" passa a ser todas MENOS a escondida: câmera de retrato, de boneco ou de cena (enableAll) também não vê as luzes reais —
+     antes o retrato do herói na subida de nível via 30 luzes e recompilava o herói inteiro */
+  THREE.Layers.prototype.enableAll = function (this: THREE.Layers) { this.mask = 0x7fffffff; };
+  const P = THREE.Object3D.prototype, oAdd = P.add;
+  P.add = function (this: THREE.Object3D, ...objs: THREE.Object3D[]) {
+    const r = oAdd.apply(this, objs);
+    for (const o of objs) { if (!o) continue; if ((o as THREE.PointLight).isPointLight) hideReal(o); else if (o.children.length) o.traverse(hideReal); }
+    return r;
+  } as typeof P.add;
+}
+
+export function createFixedLights(n = 15) {
+  patchAdd();
+  const pool: THREE.PointLight[] = []; let poolScene: THREE.Scene | null = null, reals: THREE.PointLight[] = [], tick = 0;
+  const tgt = new THREE.Vector3(), dir = new THREE.Vector3(), cand: { d: number; l: THREE.PointLight; p: THREE.Vector3 }[] = [], wps: THREE.Vector3[] = [];
+  const onStage = (o: THREE.Object3D, sc: THREE.Scene) => { let q: THREE.Object3D | null = o; while (q) { if (!q.visible) return false; if (q === sc) return true; q = q.parent; } return false; };
+  return {
+    /** antes de desenhar: as luzes fixas copiam as reais mais perto do que a câmera olha */
+    frame(s: THREE.Scene, cam: THREE.Camera) {
+      if (poolScene !== s) { if (!pool.length) for (let i = 0; i < n; i++) { const p = new THREE.PointLight(0xffffff, 0, 1, 2); p.userData.fixedLight = true; p.castShadow = false; pool.push(p); }
+        for (const p of pool) { p.removeFromParent(); s.add(p); p.layers.enableAll(); } poolScene = s; tick = 0; }
+      if ((tick++ % 10) === 0) { reals = []; s.traverse((o) => { const l = o as THREE.PointLight; if (!l.isPointLight || isFixed(l)) return; if (l.layers.mask !== 1 << HIDE) l.layers.set(HIDE); reals.push(l); }); }
+      cam.getWorldDirection(dir); tgt.copy(cam.position).addScaledVector(dir, 60); cand.length = 0;
+      for (let i = 0; i < reals.length; i++) { const l = reals[i]; if (l.intensity <= 0 || !onStage(l, s)) continue; const w = wps[i] ?? (wps[i] = new THREE.Vector3()); l.getWorldPosition(w); cand.push({ d: w.distanceTo(tgt) - (l.distance || 30) * 0.5, l, p: w }); }
+      cand.sort((a, b) => a.d - b.d);
+      for (let i = 0; i < n; i++) { const p = pool[i], c = cand[i]; if (c) { p.position.copy(c.p); p.color.copy(c.l.color); p.intensity = c.l.intensity; p.distance = c.l.distance; p.decay = c.l.decay; } else p.intensity = 0; p.updateMatrixWorld(true); }
+    },
+  };
+}

diff --git a/client/index.html b/client/index.html
@@ -1070,13 +1070,14 @@
   .qchoice { display: flex; flex-direction: column; gap: 6px; width: 100%; margin-bottom: 6px; } .qchoice p { margin: 0 0 4px; font: italic 14px Georgia, serif; color: #f0d890; } .qchoice button { text-align: left; white-space: normal; }
   /* Shop */
   #lojaw { position: fixed; inset: 0; display: none; align-items: center; justify-content: center; background: radial-gradient(ellipse at center, rgba(20,10,30,.55), rgba(0,0,0,.72)); z-index: 27; font-family: Georgia, serif; color: #e8dcc0; }
-  .ljpn { position: relative; width: min(940px, calc(94vw / var(--ui))); max-height: calc(90vh / var(--ui)); display: flex; flex-direction: column; background: linear-gradient(180deg, #1c140c 0%, #120c08 100%); border: 1px solid #8a6a3a; box-shadow: 0 0 0 1px #2a1e10, 0 0 40px rgba(201,160,255,.12), 0 20px 60px #000; border-radius: 4px; overflow: hidden; }
+  /* 03/11 (Erling: "toda vez que clico em itens ou abas do Shop ele mexe, como se mudasse de tamanho"): tamanho FIXO — cada aba tinha uma altura e a janela pulava */
+  .ljpn { position: relative; width: min(940px, calc(94vw / var(--ui))); height: min(780px, calc(90vh / var(--ui))); max-height: calc(90vh / var(--ui)); display: flex; flex-direction: column; background: linear-gradient(180deg, #1c140c 0%, #120c08 100%); border: 1px solid #8a6a3a; box-shadow: 0 0 0 1px #2a1e10, 0 0 40px rgba(201,160,255,.12), 0 20px 60px #000; border-radius: 4px; overflow: hidden; }
   .ljpn h2 { display: flex; align-items: center; gap: 12px; margin: 0; padding: 14px 18px; border-bottom: 1px solid #4a3a22; background: linear-gradient(90deg, #2a1a10, #1a1008 60%, #2a1a10); font: 600 20px Cinzel, serif; letter-spacing: .08em; color: #f0d890; }
   .ljpn h2 .lj-t { display: flex; align-items: center; gap: 10px; } .ljpn h2 .lj-t svg { width: 30px; height: 30px; filter: drop-shadow(0 0 6px #c9a0ff88); }
   .ljpn h2 small { font: italic 12px Georgia, serif; color: #a8987a; letter-spacing: 0; flex: 1; } .ljpn h2 button { background: none; border: 1px solid #5a4a30; color: #c8b890; width: 28px; height: 28px; cursor: pointer; border-radius: 3px; }
   .lj-tabs { display: flex; gap: 2px; padding: 10px 18px 0; border-bottom: 1px solid #3a2c1a; } .lj-tabs button { background: #1a120a; border: 1px solid #3a2c1a; border-bottom: 0; color: #a8987a; font: 600 12px Cinzel, serif; letter-spacing: .06em; padding: 8px 16px; cursor: pointer; border-radius: 3px 3px 0 0; }
   .lj-tabs button.on { background: #2a1e12; color: #f0d890; border-color: #8a6a3a; } .lj-tabs button:disabled { opacity: .45; cursor: default; } .lj-tabs small { font: 10px Georgia, serif; color: #7a6a50; }
-  .lj-body { padding: 16px 18px 18px; overflow: auto; }
+  .lj-body { padding: 16px 18px 18px; overflow: auto; flex: 1; min-height: 0; scrollbar-gutter: stable; }
   .ljpn.mont .lj-body { display: flex; flex-direction: column; } .lj-mhero { padding: 10px 14px; } .lj-mhero .lj-eye { font-size: 34px; display: grid; place-items: center; } .lj-mhero h3 { margin: 0 0 2px; } .lj-mhero p { margin: 0; font-size: 13px; }
   .lj-mscroll { height: min(470px, calc(52vh / var(--ui))); overflow-y: auto; padding-right: 6px; margin-top: 4px; }
   .lj-mgrid { display: grid; grid-template-columns: repeat(auto-fill, minmax(150px, 1fr)); gap: 10px; }

diff --git a/client/src/loja.ts b/client/src/loja.ts
@@ -99,12 +99,15 @@ export function createLoja(ctx: {
   function qr() { let s = ''; const on = (x: number, y: number) => ((x * 7 + y * 13 + x * y) % 5) < 2; const fin = (x: number, y: number) => `<path d="M${x} ${y}h7v7h-7z M${x + 1} ${y + 1}v5h5v-5z" fill="#140e08" fill-rule="evenodd"/><rect x="${x + 2}" y="${y + 2}" width="3" height="3" fill="#140e08"/>`;
     for (let y = 0; y < 21; y++) for (let x = 0; x < 21; x++) { const inF = (x < 8 && y < 8) || (x > 12 && y < 8) || (x < 8 && y > 12); if (!inF && on(x, y)) s += `<rect x="${x}" y="${y}" width="1" height="1" fill="#140e08"/>`; }
     return `<rect width="21" height="21" fill="#f3ead6"/>${s}${fin(0, 0)}${fin(14, 0)}${fin(0, 14)}`; }
+  let lastTab = '';
   function render() {
     if (!open) { el.style.display = 'none'; return; }
+    /* a rolagem fica onde estava quando a aba é a mesma (comprar, voltar, trocar de lado) */
+    const sc = tab === lastTab ? (el.querySelector('.lj-body') as HTMLElement | null)?.scrollTop ?? 0 : 0; lastTab = tab;
     el.innerHTML = `<div class="pn ljpn ${tab === 'mont' || tab === 'pets' ? 'mont' : ''}"><h2><span class="lj-t">${EYE}Shop</span><small>conforto e beleza, nunca força · pagamento por Pix</small><button data-lx>✕</button></h2>
       <nav class="lj-tabs"><button data-tab="prem" class="${tab === 'prem' ? 'on' : ''}">✦ Plano Premium</button><button data-tab="fac" class="${tab === 'fac' ? 'on' : ''}">⚑ Brasões das Facções</button><button data-tab="mont" class="${tab === 'mont' ? 'on' : ''}">🐎 Estábulo do Domador</button><button data-tab="pets" class="${tab === 'pets' ? 'on' : ''}">🐾 Pets</button><button disabled title="Em breve: aparências por cultura e mascotes cosméticos">Aparências <small>em breve</small></button></nav>
       <div class="lj-body">${tab === 'prem' ? premCard() : tab === 'mont' ? mountCard() : tab === 'pets' ? mountCard(true) : facCard()}</div>${checkout()}</div>`;
-    el.style.display = 'flex';
+    el.style.display = 'flex'; { const b = el.querySelector('.lj-body') as HTMLElement | null; if (b && sc) b.scrollTop = sc; }
     if (tab === 'mont' || tab === 'pets') el.querySelectorAll<HTMLImageElement>('img[data-th]').forEach((im) => ctx.thumb(im.dataset.th!, (u) => { im.src = u; im.hidden = false; (im.nextElementSibling as HTMLElement | null)?.remove(); }));
   }
   function approve() {

diff --git a/client/src/dual3d.ts b/client/src/dual3d.ts
@@ -9,7 +9,9 @@ import { Pass, FullScreenQuad } from 'three/examples/jsm/postprocessing/Pass.js'
  * personagem atrás de uma casa continua escondido por ela. O mapa de sombras é calculado UMA vez por quadro e reaproveitado.
  */
 export const LAYER_WORLD = 0, LAYER_FINE = 1;
-export function fine(o: THREE.Object3D) { o.traverse((c) => { if ((c as THREE.Light).isLight) c.layers.enableAll(); else c.layers.set(LAYER_FINE); }); return o; }
+/** luz pontual real (as fixas copiam dela; ela mesma fica na camada escondida — luzes-fixas.ts) */
+const realPoint = (o: THREE.Object3D) => !!(o as THREE.PointLight).isPointLight && !o.userData.fixedLight && !o.userData.gpuPool;
+export function fine(o: THREE.Object3D) { o.traverse((c) => { if ((c as THREE.Light).isLight) { if (!realPoint(c)) c.layers.enableAll(); } else c.layers.set(LAYER_FINE); }); return o; }
 
 export class DualRenderPass extends Pass {
   rt: THREE.WebGLRenderTarget;
@@ -48,7 +50,7 @@ export class DualRenderPass extends Pass {
        respeito: o cenário (milhares de objetos) some da passada fina, e os personagens somem da passada do cenário. */
     if ((this.tick % 30) === 0) { this.onlyW.clear(); this.onlyF.clear(); const W = 1 << LAYER_WORLD, F = 1 << LAYER_FINE;
       for (const r of this.scene.children) { let m = 0, cs = false; r.traverse((o) => { if (!(o as THREE.Light).isLight) { m |= o.layers.mask; if (o.castShadow && (o as THREE.Mesh).isMesh) cs = true; } }); if ((m & F) && !(m & W) && !cs) this.onlyF.add(r); /* quem projeta sombra fica: o mapa de sombra é desenhado na passada do cenário */ else if ((m & W) && !(m & F)) this.onlyW.add(r); } }
-    if ((this.tick++ % 30) === 0) this.scene.traverse((o) => { if ((o as THREE.Light).isLight) { o.layers.enableAll(); const l = o as THREE.DirectionalLight; if (l.shadow && l.shadow.camera) l.shadow.camera.layers.enableAll(); } });
+    if ((this.tick++ % 30) === 0) this.scene.traverse((o) => { if ((o as THREE.Light).isLight) { if (!realPoint(o)) o.layers.enableAll(); const l = o as THREE.DirectionalLight; if (l.shadow && l.shadow.camera) l.shadow.camera.layers.enableAll(); } });
     const autoSM = sm.autoUpdate; sm.autoUpdate = false; sm.needsUpdate = true; // sombras: 1× por quadro
     const oldAC = renderer.autoClear; renderer.autoClear = true;
     // 1) cenário em meia resolução

diff --git a/client/src/gpu/impl.ts b/client/src/gpu/impl.ts
@@ -47,7 +47,7 @@ function groundFrag(G: { tGround: Ref; uMean: Ref; uTexOn: Ref }) {
     diffuseColor.rgb.assign(c); return;
   }
   const tex = keep(G.tGround.value as THREE.DataArrayTexture), mean = (G.uMean.value as THREE.Vector3[]).map((v) => uniform(v));
-  const gTex = (Ly: number, sc: number) => { const p = wp.div(sc), q = vec2(wp.x.mul(0.809).add(wp.y.mul(0.588)), wp.x.mul(-0.588).add(wp.y.mul(0.809))).div(sc * 1.37).add(vec2(0.37, 0.71));
+  const gTex = (Ly: number, sc0: any) => { const sc = typeof sc0 === 'number' ? float(sc0) : sc0, p = wp.div(sc), q = vec2(wp.x.mul(0.809).add(wp.y.mul(0.588)), wp.x.mul(-0.588).add(wp.y.mul(0.809))).div(sc.mul(1.37)).add(vec2(0.37, 0.71));
     const n = smoothstep(0.32, 0.68, gNoise(wp.mul(0.045).add(Ly * 7.3)));
     return mix(texture(tex, p).depth(Ly).rgb, texture(tex, q).depth(Ly).rgb, n); };
   const gPair = (A: number, B: number, sc: number, seed: number) => { const n = smoothstep(0.38, 0.62, gNoise(wp.mul(0.028).add(seed))); return mix(gTex(A, sc).div(mean[A]), gTex(B, sc).div(mean[B]), n); };
@@ -62,7 +62,11 @@ function groundFrag(G: { tGround: Ref; uMean: Ref; uTexOn: Ref }) {
   base = mix(base, mix(gTex(8, 1.8), gTex(15, 2.0), nz(0.07, 6)), clamp(sp2.x, 0, 1).mul(0.9));
   const road = mix(gTex(2, 3.0), gTex(3, 3.0), nz(0.06, 9));
   base = mix(base, road.mul(0.92), clamp(sp1.x, 0, 1));
-  let cob = mix(gTex(4, 2.4), gTex(5, 2.4), nz(0.05, 3));
+  /* três tamanhos de pedra, do centro da cidade para fora (o mesmo do WebGL em chunks3d) */
+  const cu = clamp(attribute('aCs', 'float'), 0, 1).mul(2), big = cu.greaterThanEqual(2), cf = select(big, float(0), smoothstep(0.3, 0.7, fract(cu)));
+  const cn = nz(0.05, 3), cobAt = (sc: any) => mix(gTex(4, sc), gTex(5, sc), cn);
+  const sA = select(big, float(3.4), select(cu.lessThan(1), float(1.6), float(2.4))), sB = select(cu.lessThan(1), float(2.4), float(3.4));
+  let cob = mix(cobAt(sA), cobAt(sB), cf);
   cob = mix(cob, gTex(12, 3.2), pl.mul(smoothstep(0.3, 0.7, gNoise(wp.mul(0.02).add(11)))));
   base = mix(base, cob.mul(0.95), clamp(sp1.y, 0, 1));
   diffuseColor.rgb.assign(base);
